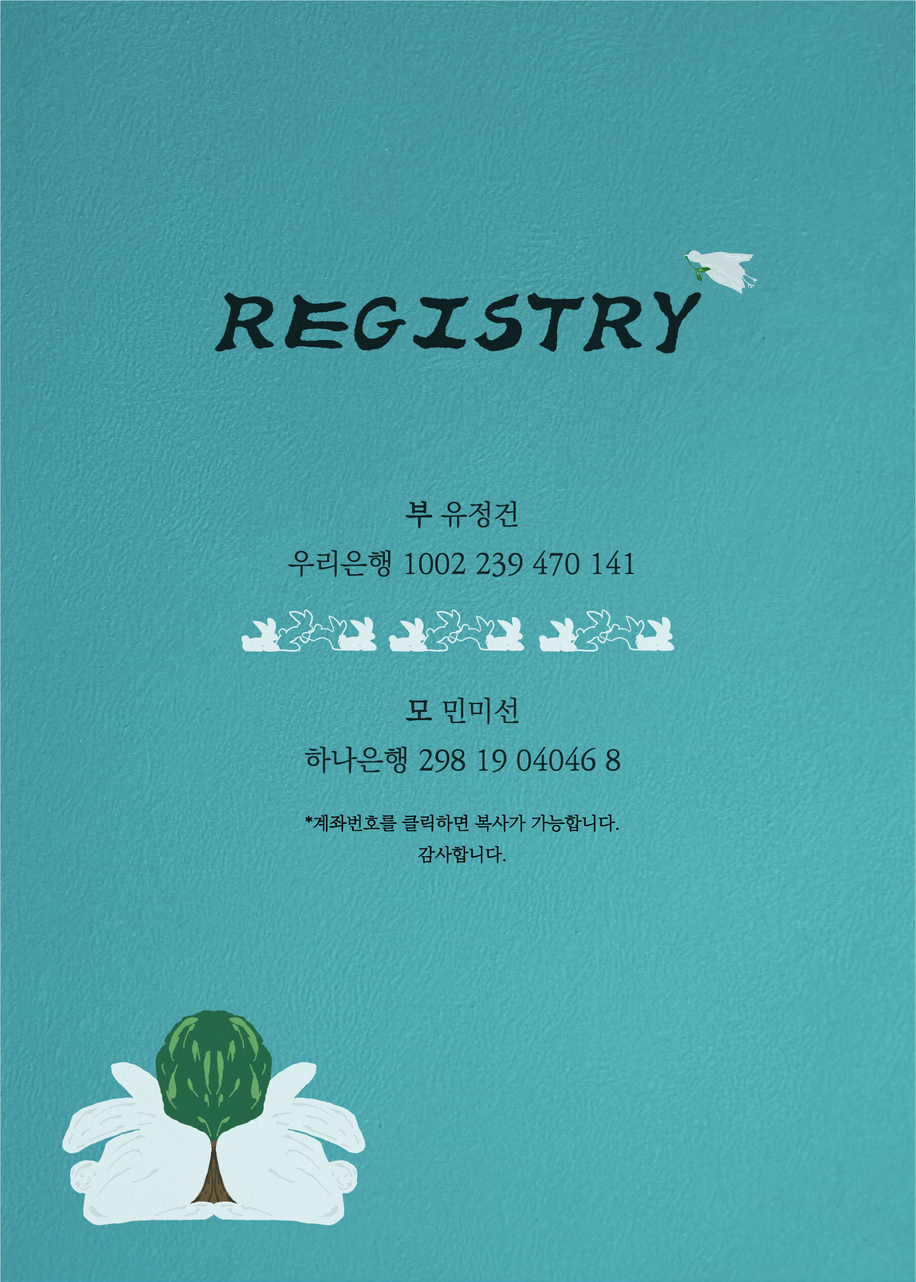
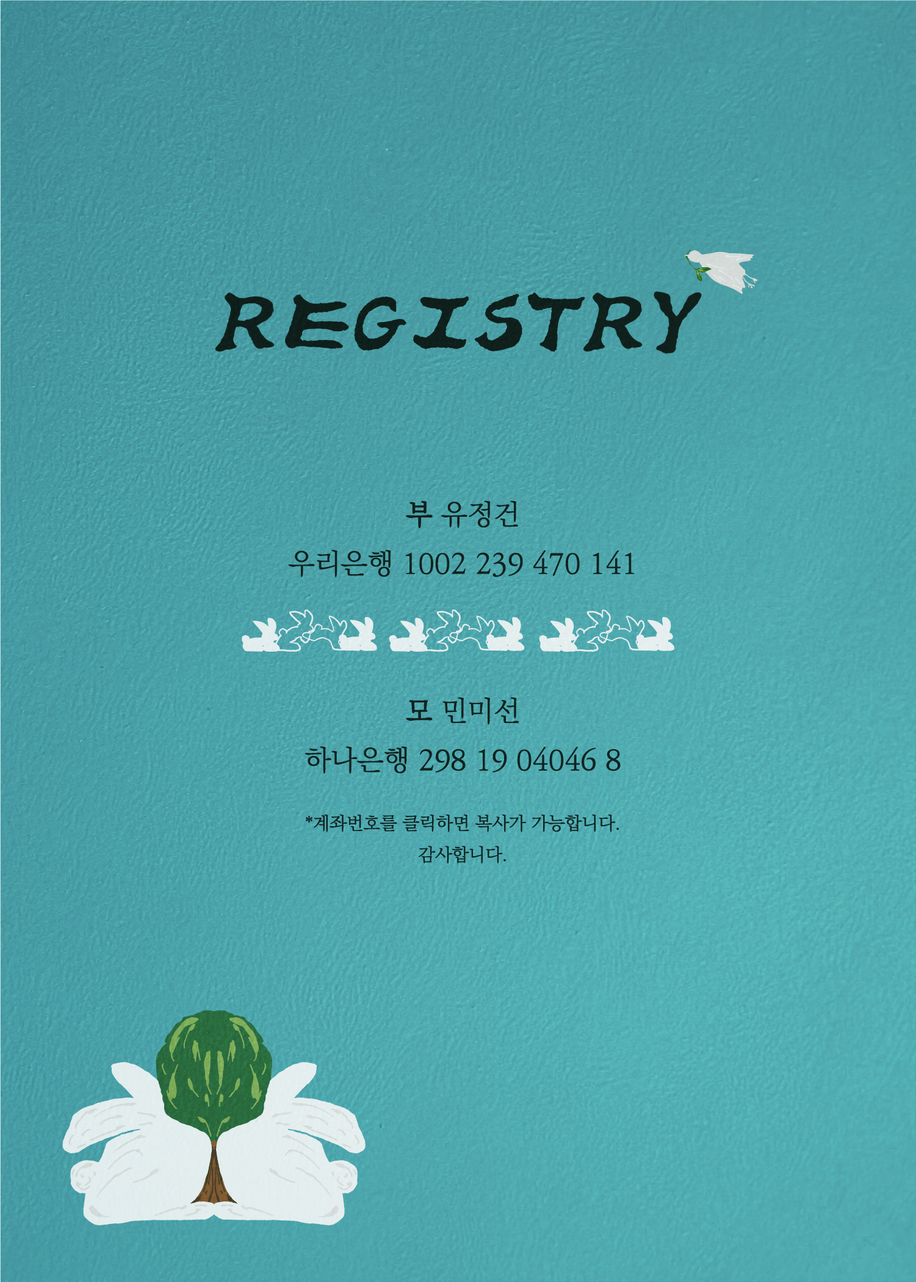
Add files via upload

diff --git a/index.html b/index.html
@@ -26,22 +26,26 @@ display:block;
 
 .copy{
 position:absolute;
-left:50%;
-transform:translateX(-50%);
-width:560px;
-height:42px;
 background:transparent;
 border:none;
 cursor:pointer;
 -webkit-tap-highlight-color:transparent;
 }
 
+/* 부 - 우리은행 1002 239 470 141 숫자 부분만 */
 #father{
-top:42.95%;
+left:43.971%;
+top:42.694%;
+width:25.583%;
+height:2.523%;
 }
 
+/* 모 - 하나은행 298 19 04046 8 숫자 부분만 (298 포함) */
 #mother{
-top:59.05%;
+left:45.503%;
+top:58.02%;
+width:22.585%;
+height:2.475%;
 }
 
 #toast{
@@ -64,7 +68,6 @@ z-index:9999;
 opacity:1;
 }
 
-/* 날아가는 새: 오른쪽에서 왼쪽으로 */
 #bird{
 position:fixed;
 top:60%;
